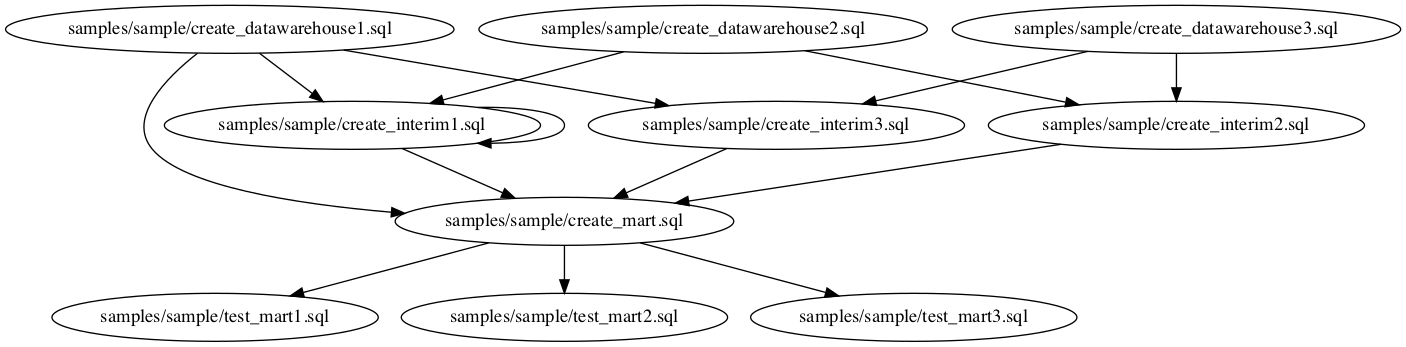
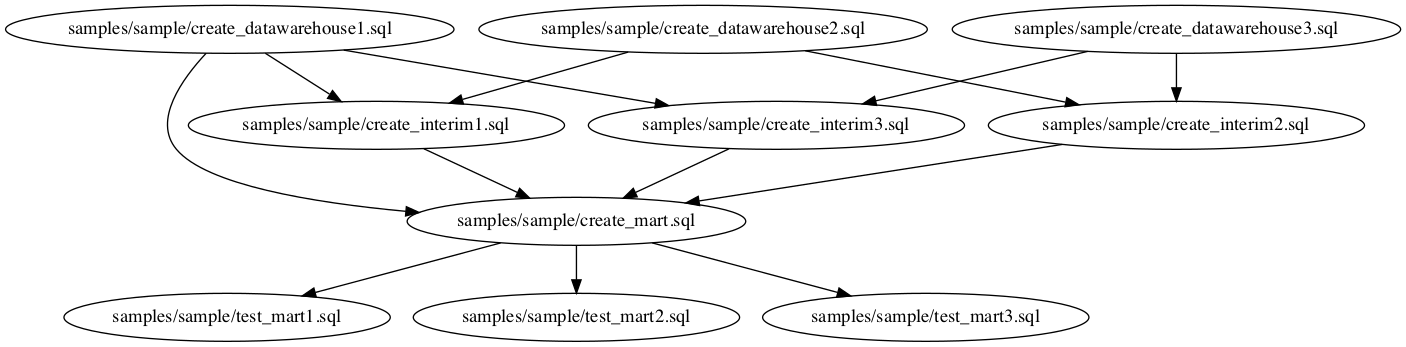
Add UpdateEdgesWithoutSelf and use to prevent self references

diff --git a/alphasql/alphadag.cc b/alphasql/alphadag.cc
@@ -89,51 +89,29 @@ int main(int argc, char* argv[]) {
   for (auto& [table_name, table_queries] : table_queries_map) {
     if (side_effect_first) {
       for (const auto& insert : table_queries.inserts) {
-        if (insert == table_queries.create) continue;
-        // Prevent self reference
-        auto others_it = table_queries.others.begin();
-        while (others_it != table_queries.others.end()) {
-          if (*others_it == insert) {
-            others_it = table_queries.others.erase(others_it);
-          } else {
-            ++others_it;
-          }
-        }
-
-        alphasql::UpdateEdges(depends_on, table_queries.others, insert);
+        alphasql::UpdateEdgesWithoutSelf(depends_on, table_queries.others, insert);
       }
       for (const auto& update : table_queries.updates) {
-        if (update == table_queries.create) continue;
-        // Prevent self reference
-        auto others_it = table_queries.others.begin();
-        while (others_it != table_queries.others.end()) {
-          if (*others_it == update) {
-            others_it = table_queries.others.erase(others_it);
-          } else {
-            ++others_it;
-          }
-        }
-
-        alphasql::UpdateEdges(depends_on, table_queries.others, update);
+        alphasql::UpdateEdgesWithoutSelf(depends_on, table_queries.others, update);
       }
       if (with_tables) {
-        alphasql::UpdateEdges(depends_on, table_queries.inserts, table_name);
-        alphasql::UpdateEdges(depends_on, table_queries.updates, table_name);
-        alphasql::UpdateEdges(depends_on, table_queries.others, table_name);
-        alphasql::UpdateEdges(depends_on, {table_name}, table_queries.create);
+        alphasql::UpdateEdgesWithoutSelf(depends_on, table_queries.inserts, table_name);
+        alphasql::UpdateEdgesWithoutSelf(depends_on, table_queries.updates, table_name);
+        alphasql::UpdateEdgesWithoutSelf(depends_on, table_queries.others, table_name);
+        alphasql::UpdateEdgesWithoutSelf(depends_on, {table_name}, table_queries.create);
         table_vertices.insert(table_name);
       } else {
-        alphasql::UpdateEdges(depends_on, table_queries.inserts, table_queries.create);
-        alphasql::UpdateEdges(depends_on, table_queries.updates, table_queries.create);
-        alphasql::UpdateEdges(depends_on, table_queries.others, table_queries.create);
+        alphasql::UpdateEdgesWithoutSelf(depends_on, table_queries.inserts, table_queries.create);
+        alphasql::UpdateEdgesWithoutSelf(depends_on, table_queries.updates, table_queries.create);
+        alphasql::UpdateEdgesWithoutSelf(depends_on, table_queries.others, table_queries.create);
       }
     } else {
       if (with_tables) {
-        alphasql::UpdateEdges(depends_on, table_queries.others, table_name);
-        alphasql::UpdateEdges(depends_on, {table_name}, table_queries.create);
+        alphasql::UpdateEdgesWithoutSelf(depends_on, table_queries.others, table_name);
+        alphasql::UpdateEdgesWithoutSelf(depends_on, {table_name}, table_queries.create);
         table_vertices.insert(table_name);
       } else {
-        alphasql::UpdateEdges(depends_on, table_queries.others, table_queries.create);
+        alphasql::UpdateEdgesWithoutSelf(depends_on, table_queries.others, table_queries.create);
       }
     }
     if (table_queries.create.empty()) {
@@ -145,11 +123,11 @@ int main(int argc, char* argv[]) {
   std::set<std::string> function_vertices;
   for (auto const& [function_name, function_queries] : function_queries_map) {
     if (with_functions && !function_queries.create.empty()) { // Skip default functions
-      alphasql::UpdateEdges(depends_on, function_queries.call, function_name);
-      alphasql::UpdateEdges(depends_on, {function_name}, function_queries.create);
+      alphasql::UpdateEdgesWithoutSelf(depends_on, function_queries.call, function_name);
+      alphasql::UpdateEdgesWithoutSelf(depends_on, {function_name}, function_queries.create);
       function_vertices.insert(function_name);
     } else {
-      alphasql::UpdateEdges(depends_on, function_queries.call, function_queries.create);
+      alphasql::UpdateEdgesWithoutSelf(depends_on, function_queries.call, function_queries.create);
     }
   }
 

diff --git a/alphasql/dag_lib.h b/alphasql/dag_lib.h
@@ -154,10 +154,11 @@ namespace alphasql {
     return absl::OkStatus();
   }
 
-  void UpdateEdges(std::vector<Edge>& depends_on,
+  void UpdateEdgesWithoutSelf(std::vector<Edge>& depends_on,
                    std::vector<std::string> dependents, std::string parent) {
     if (!dependents.size() || parent.empty()) return;
     for (const std::string& dep : dependents) {
+      if (dep == parent) continue;
       depends_on.push_back(std::make_pair(dep, parent));
     }
   }
